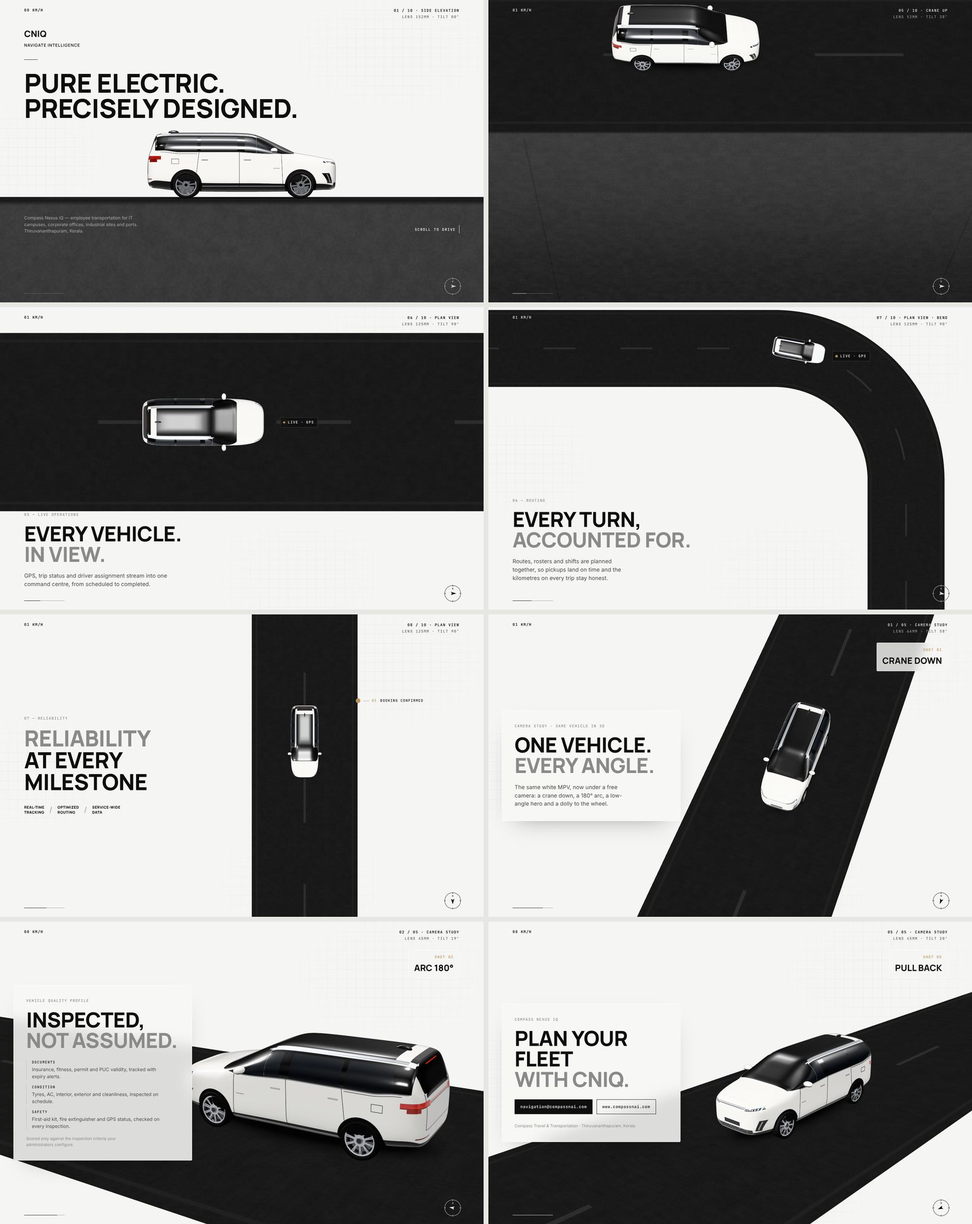
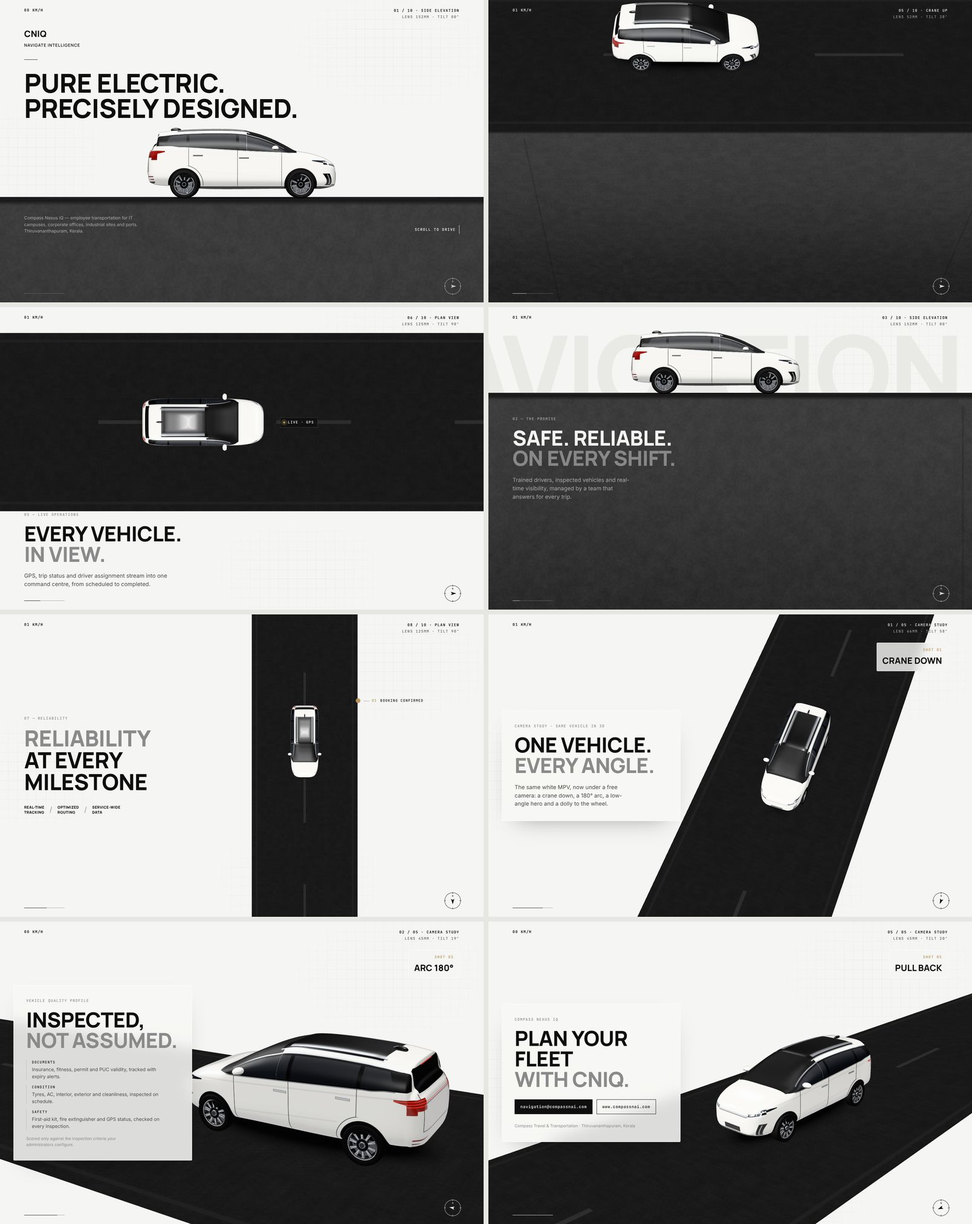
Match CNIQ demo vehicle to the side-view reference
- Re-profile the lofted body from measurements of the reference photo:
  short sloping bonnet, long raked windscreen, roof spoiler over a raked
  tailgate, 1.745 m height, axles at +1.46 / -1.43 m, 0.35 m tyres
- Beltline rising 1.13 -> 1.26 m with a rear-quarter kick, white roof
  strip above a satin DLO line, hinged rear door whose shut-line wraps
  the wheel arch, shoulder crease and lower door sculpt line
- Swept headlamps wrapping the fender, tail lamps wrapping 0.4 m onto
  the flank, side reflector, body-colour skirt with satin strip
- Two-tone rims (gloss-black base, machined spoke faces), matte
  piano-black pillars and tinted panes instead of chrome-like glass
- Camera-study look-at height follows the taller body

Claude-Session: https://claude.ai/code/session_01RJtgHa5R9zYPJP1aifTxRB

diff --git a/demos/cniq-mpv-scroll/vehicle.js b/demos/cniq-mpv-scroll/vehicle.js
@@ -6,10 +6,10 @@ import * as THREE from 'three';
 export const SPEC = {
   length: 4.72,
   width: 1.82,
-  height: 1.645,
+  height: 1.745,
   frontAxle: 1.46,
-  rearAxle: -1.38,
-  wheelRadius: 0.335,
+  rearAxle: -1.43,
+  wheelRadius: 0.35,
   wheelWidth: 0.235,
   track: 0.8, // wheel centre offset from the centre line
 };
@@ -18,16 +18,21 @@ const HALF_L = SPEC.length / 2;
 const HALF_W = SPEC.width / 2;
 
 // Side profile (x, y), front to rear. Top line and bottom line are sampled separately.
+// Measured from the side-view reference: short sloping bonnet, long raked screen,
+// roof spoiler over a raked tailgate. (x, y) in metres, front to rear.
 const TOP = [
-  [2.36, 0.62], [2.355, 0.8], [2.33, 0.9], [2.27, 0.965], [2.1, 1.0], [1.8, 1.06],
-  [1.5, 1.112], [1.32, 1.145], [1.1, 1.25], [0.85, 1.37], [0.6, 1.49], [0.4, 1.572],
-  [0.25, 1.612], [0.0, 1.634], [-1.0, 1.645], [-1.8, 1.64], [-2.05, 1.618], [-2.13, 1.588],
-  [-2.18, 1.5], [-2.25, 1.3], [-2.31, 1.12], [-2.345, 0.95], [-2.36, 0.76],
+  [2.36, 0.56], [2.354, 0.644], [2.343, 0.676], [2.313, 0.816], [2.246, 0.9], [2.188, 0.942],
+  [2.071, 1.006], [1.955, 1.052], [1.838, 1.09], [1.722, 1.122], [1.605, 1.146], [1.488, 1.163],
+  [1.372, 1.184], [1.313, 1.2], [1.197, 1.265], [1.08, 1.33], [0.905, 1.42], [0.789, 1.475],
+  [0.672, 1.525], [0.555, 1.569], [0.439, 1.609], [0.322, 1.641], [0.205, 1.671], [0.089, 1.703],
+  [-0.144, 1.728], [-0.436, 1.738], [-0.845, 1.738], [-1.19, 1.728], [-1.43, 1.718], [-1.54, 1.708],
+  [-1.7, 1.697], [-1.894, 1.673], [-2.01, 1.659], [-2.069, 1.645], [-2.1, 1.52], [-2.127, 1.394],
+  [-2.185, 1.344], [-2.24, 1.245], [-2.3, 1.16], [-2.335, 0.95], [-2.36, 0.7],
 ];
 const BOTTOM = [
-  [2.36, 0.58], [2.35, 0.4], [2.33, 0.27], [2.25, 0.225], [2.0, 0.21], [1.6, 0.19],
-  [1.0, 0.168], [-1.0, 0.168], [-1.6, 0.19], [-2.05, 0.24], [-2.28, 0.28], [-2.34, 0.37],
-  [-2.36, 0.72],
+  [2.36, 0.52], [2.354, 0.484], [2.343, 0.4], [2.313, 0.312], [2.25, 0.29], [2.1, 0.255],
+  [1.95, 0.235], [1.8, 0.24], [1.0, 0.24], [-1.0, 0.24], [-1.75, 0.31], [-2.0, 0.32],
+  [-2.18, 0.344], [-2.24, 0.37], [-2.3, 0.4], [-2.34, 0.55], [-2.36, 0.66],
 ];
 
 function profileSampler(points) {
@@ -78,7 +83,7 @@ function planHalf(x) {
   return HALF_W * Math.pow(Math.max(0, 1 - Math.pow(t, p)), 1 / p);
 }
 
-const BELT = 1.1;
+const BELT = 1.15;
 function widthFactor(y, yb, yt) {
   const tb = smooth(BELT - 0.02, Math.max(yt, BELT + 0.12), y);
   const tumble = 1 - 0.19 * tb * tb;
@@ -180,101 +185,112 @@ const ZONE_MAIN = /* glsl */ `
   float czYt = vRing.x;
   float czHm = vRing.z;
   float czSide = smoothstep(0.35, 0.65, abs(czN.z));
-  // beltline: 1.10 at the A-pillar, 1.15 mid-cabin, kicking up to 1.19 at the rear quarter
-  float czBelt = 1.1 + 0.05 * smoothstep(0.8, -0.2, czP.x) + 0.04 * smoothstep(-1.55, -1.95, czP.x);
-  float czWinTop = czYt - 0.075;
+  // beltline rises from 1.13 m at the A-pillar to 1.26 m, then kicks up at the rear quarter
+  float czBelt = 1.13 + 0.054 * clamp(1.1 - czP.x, 0.0, 2.5) + 0.03 * smoothstep(-1.5, -1.8, czP.x);
+  float czWinTop = czYt - 0.115; // leaves a white roof strip above the satin DLO line
 
-  float czSideBand = czAA(czBelt, czP.y) * (1.0 - czAA(czWinTop, czP.y)) * czAA(-2.15, czP.x) * (1.0 - czAA(0.36, czP.x));
-  float czScreen = czAA(0.36, czP.x) * (1.0 - czAA(1.3, czP.x)) * czAA(czBelt, czP.y);
-  float czRearGlass = (1.0 - czAA(-0.45, czN.x)) * czBand(czP.y, 1.16, 1.555) * (1.0 - czAA(czHm * 0.8, czX));
+  float czSideBand = czAA(czBelt, czP.y) * (1.0 - czAA(czWinTop, czP.y)) * czAA(-2.15, czP.x) * (1.0 - czAA(0.12, czP.x));
+  float czScreen = czAA(0.12, czP.x) * (1.0 - czAA(1.365, czP.x)) * czAA(czBelt, czP.y);
+  float czRearGlass = (1.0 - czAA(-0.45, czN.x)) * czBand(czP.y, 1.25, 1.6) * (1.0 - czAA(0.62, czX)) * (1.0 - czAA(-2.04, czP.x));
   float czGlass = max(max(czSideBand, czScreen), czRearGlass);
 
-  // panes inside the black band (pillars and frames stay jet black)
-  float czPane = czBand(czP.y, czBelt + 0.022, czWinTop - 0.03) * czSide * (
-      czBand(czP.x, 0.07, 0.86 - (czP.y - 1.1) * 1.5) +
-      czBand(czP.x, -1.02, -0.11) +
-      czBand(czP.x, -1.93 + (czP.y - 1.2) * 0.35, -1.1));
+  // panes: front door, rear door, rear quarter (pillars stay piano black)
+  float czPane = czBand(czP.y, czBelt + 0.02, czWinTop - 0.028) * czSide * (
+      czBand(czP.x, -0.07, 1.12 - (czP.y - 1.13) * 1.35) +
+      czBand(czP.x, -1.3, -0.14) +
+      czBand(czP.x, -1.93 + (czP.y - 1.29) * 0.6, -1.37));
 
-  float czClad = max(1.0 - czAA(0.29, czP.y), 1.0 - czAA(-0.4, czN.y));
-  float czZn = czX / max(czHm, 0.05); // 0 at the centre line, 1 at the body side (valid away from nose/tail tips)
+  float czClad = (1.0 - czAA(-0.75, czN.y)) * (1.0 - czAA(0.3, czP.y)); // underside only: the skirt stays body colour
+  float czZn = czX / max(czHm, 0.05);
 
   // ================= PREMIUM TRIM =================
-  // ---- front fascia: matrix lamps with L-shaped DRL, full-width light blade over a satin bar,
-  //      diamond-mesh grille, satin-bladed corner intakes, brushed lip, flush parking sensors
+  // ---- front fascia: swept matrix lamps (wrapping onto the fender), L-signature DRL, full-width
+  //      light blade over a satin bar, corner intakes, diamond-mesh grille, brushed lip
   float czFront = czAA(0.3, czN.x) * czAA(1.95, czP.x);
-  float czLampY = czP.y - 0.05 * smoothstep(0.4, 0.86, czX);
-  float czLamp = czAA(2.02, czP.x) * czBand(czLampY, 0.84, 0.905) * czAA(0.4, czX) * czAA(-0.1, czN.x);
-  float czDrl = czLamp * czBand(czLampY, 0.889, 0.902);
-  czDrl = max(czDrl, czAA(2.02, czP.x) * czAA(-0.1, czN.x) * czBand(czX, 0.703, 0.722) * czBand(czLampY, 0.80, 0.902));
-  float czProj = czLamp * czBand(czLampY, 0.852, 0.877) * czBand(fract((czX - 0.38) * 22.0), 0.2, 0.6) * (1.0 - czAA(0.69, czX));
-  float czBar = czFront * czBand(czP.y, 0.864, 0.882) * (1.0 - czAA(0.42, czX));
-  float czSlot = czFront * czBand(czP.y, 0.884, 0.912) * (1.0 - czAA(0.42, czX));
-  float czBlade = czFront * czBand(czP.y, 0.894, 0.901) * (1.0 - czAA(0.41, czX));
-  float czFangC = 0.68 + (czP.y - 0.38) * 0.3;
-  float czFang = czFront * czBand(czP.y, 0.38, 0.63) * czBand(czX, czFangC - 0.05, czFangC + 0.045);
-  float czFangBlade = czFang * czBand(czX, czFangC - 0.009, czFangC + 0.004) * czBand(czP.y, 0.41, 0.6);
-  float czGrille = czFront * czBand(czP.y, 0.29, 0.395) * (1.0 - czAA(0.58, czX));
+  float czLampY = czP.y - 0.06 * smoothstep(0.45, 0.85, czX);
+  float czLampF = czAA(2.02, czP.x) * czBand(czLampY, 0.785, 0.85) * czAA(0.45, czX) * czAA(-0.1, czN.x);
+  float czSweep = clamp(2.3 - czP.x, 0.0, 1.0);
+  float czLampS = czSide * czBand(czP.x, 1.74, 2.34) * czBand(czP.y, 0.83 + czSweep * 0.175, 0.955 + czSweep * 0.02);
+  float czLamp = max(czLampF, czLampS);
+  float czDrl = czLampF * czBand(czLampY, 0.838, 0.85);
+  czDrl = max(czDrl, czLampS * czBand(czP.y, 0.938 + czSweep * 0.02, 0.952 + czSweep * 0.02));
+  float czProjS = czLampS * czBand(czP.y, 0.86 + czSweep * 0.1, 0.905 + czSweep * 0.05) * czBand(fract(czP.x * 18.0), 0.25, 0.6) * czAA(2.02, czP.x);
+  czDrl = max(czDrl, czAA(2.02, czP.x) * czAA(-0.1, czN.x) * czBand(czX, 0.703, 0.722) * czBand(czLampY, 0.75, 0.85));
+  float czProj = czLampF * czBand(czLampY, 0.8, 0.828) * czBand(fract((czX - 0.45) * 22.0), 0.2, 0.6) * (1.0 - czAA(0.69, czX));
+  float czBar = czFront * czBand(czP.y, 0.752, 0.768) * (1.0 - czAA(0.45, czX));
+  float czSlot = czFront * czBand(czP.y, 0.77, 0.796) * (1.0 - czAA(0.45, czX));
+  float czBlade = czFront * czBand(czP.y, 0.779, 0.786) * (1.0 - czAA(0.44, czX));
+  float czFangC = 0.66 + (czP.y - 0.33) * 0.3;
+  float czFang = czFront * czBand(czP.y, 0.33, 0.62) * czBand(czX, czFangC - 0.05, czFangC + 0.045);
+  float czFangBlade = czFang * czBand(czX, czFangC - 0.009, czFangC + 0.004) * czBand(czP.y, 0.36, 0.59);
+  float czGrille = czFront * czBand(czP.y, 0.24, 0.35) * (1.0 - czAA(0.58, czX));
   vec2 czMesh = vec2(czP.y + czX, czP.y - czX) * 34.0;
   float czMeshL = czGrille * (1.0 - smoothstep(0.06, 0.14, min(abs(fract(czMesh.x) - 0.5), abs(fract(czMesh.y) - 0.5))));
-  float czGrilleRim = czFront * (czBand(czP.y, 0.283, 0.29) + czBand(czP.y, 0.395, 0.401)) * (1.0 - czAA(0.58, czX));
-  float czPlateF = czFront * czBand(czP.y, 0.43, 0.535) * (1.0 - czAA(0.25, czX));
-  float czLip = czFront * czBand(czP.y, 0.236, 0.262) * (1.0 - czAA(0.78, czX));
-  float czFrontLow = czFront * (1.0 - czAA(0.236, czP.y));
-  float czSensor = czFront * (1.0 - czAA(0.011, min(length(vec2(czX - 0.33, czP.y - 0.575)), length(vec2(czX - 0.52, czP.y - 0.575)))));
-  float czHood = czAA(0.6, czN.y) * czBand(czP.x, 1.4, 2.22) * exp(-pow((czX - 0.43) / 0.018, 2.0));
+  float czGrilleRim = czFront * (czBand(czP.y, 0.234, 0.24) + czBand(czP.y, 0.35, 0.356)) * (1.0 - czAA(0.58, czX));
+  float czPlateF = czFront * czBand(czP.y, 0.37, 0.5) * (1.0 - czAA(0.25, czX));
+  float czLip = czFront * czBand(czP.y, 0.2, 0.232) * (1.0 - czAA(0.78, czX));
+  float czFrontLow = czFront * (1.0 - czAA(0.2, czP.y));
+  float czSensor = czFront * (1.0 - czAA(0.011, min(length(vec2(czX - 0.33, czP.y - 0.56)), length(vec2(czX - 0.52, czP.y - 0.56)))));
+  float czHood = czAA(0.6, czN.y) * czBand(czP.x, 1.45, 2.2) * exp(-pow((czX - 0.43) / 0.018, 2.0));
 
-  // ---- rear: L-lamps joined by a full-width red light blade, satin garnish, finned diffuser,
-  //      piano-black spoiler lip, high stop lamp
+  // ---- rear: tail lamps wrapping 0.4 m onto the flank, joined by a full-width red blade
   float czRear = (1.0 - czAA(-0.3, czN.x)) * (1.0 - czAA(-2.05, czP.x));
-  float czTail = czBand(czP.y, 0.965, 1.055) * (1.0 - czAA(-2.0, czP.x)) * czAA(0.46, czX);
-  czTail = max(czTail, czRear * czBand(czP.y, 0.9, 1.055) * czAA(0.72, czX));
-  float czTailLine = czTail * (czBand(czP.y, 0.99, 0.997) + czBand(czP.y, 1.012, 1.018) + czBand(czP.y, 1.034, 1.04));
-  float czBladeR = czRear * czBand(czP.y, 1.009, 1.017) * (1.0 - czAA(0.47, czX));
-  float czBarR = czRear * czBand(czP.y, 0.984, 0.998) * (1.0 - czAA(0.46, czX));
-  float czBladeHousing = czRear * czBand(czP.y, 0.999, 1.027) * (1.0 - czAA(0.47, czX));
-  float czStop = czRear * czBand(czP.y, 1.528, 1.542) * (1.0 - czAA(0.26, czX));
-  float czGate = czRear * (czLine(czX, 0.6, 0.0035) * czBand(czP.y, 0.6, 1.16) + czLine(czP.y, 0.6, 0.0025) * (1.0 - czAA(0.6, czX)));
-  float czReflector = czRear * czBand(czP.y, 0.47, 0.492) * czBand(czX, 0.45, 0.76);
-  float czRearLow = czRear * (1.0 - czAA(0.4, czP.y));
-  float czDiffuser = czRear * czBand(czP.y, 0.255, 0.315) * (1.0 - czAA(0.64, czX));
-  float czFins = czDiffuser * czBand(fract(czX * 11.0), 0.0, 0.16) * czBand(czP.y, 0.255, 0.3);
-  float czSpoiler = czAA(0.25, czN.y) * (1.0 - czAA(-2.0, czP.x)) * czAA(czYt - 0.03, czP.y);
+  float czRun = clamp(czP.x + 2.29, 0.0, 0.4);
+  float czTailS = czSide * (1.0 - czAA(-1.9, czP.x)) * czBand(czP.y, 1.06 + czRun * 0.23, 1.19 - czRun * 0.03);
+  float czTailR = czRear * czBand(czP.y, 1.01, 1.18) * czAA(0.55, czX);
+  czTailR = max(czTailR, czRear * czBand(czP.y, 0.95, 1.18) * czAA(0.76, czX));
+  float czTail = max(czTailS, czTailR);
+  float czTailLine = czTail * (czBand(czP.y, 1.075, 1.082) + czBand(czP.y, 1.115, 1.122) + czBand(czP.y, 1.153, 1.16));
+  float czBladeR = czRear * czBand(czP.y, 1.106, 1.116) * (1.0 - czAA(0.56, czX));
+  float czBarR = czRear * czBand(czP.y, 1.084, 1.1) * (1.0 - czAA(0.55, czX));
+  float czBladeHousing = czRear * czBand(czP.y, 1.1, 1.124) * (1.0 - czAA(0.56, czX));
+  float czStop = czRear * czBand(czP.y, 1.585, 1.598) * (1.0 - czAA(0.26, czX));
+  float czGate = czRear * (czLine(czX, 0.66, 0.0035) * czBand(czP.y, 0.67, 1.25) + czLine(czP.y, 0.67, 0.0025) * (1.0 - czAA(0.66, czX)));
+  float czReflector = czRear * czBand(czP.y, 0.53, 0.555) * czBand(czX, 0.45, 0.78);
+  czReflector = max(czReflector, czSide * (1.0 - czAA(-2.18, czP.x)) * czBand(czP.y, 0.46, 0.485));
+  float czRearLow = czRear * (1.0 - czAA(0.42, czP.y));
+  float czDiffuser = czRear * czBand(czP.y, 0.29, 0.37) * (1.0 - czAA(0.64, czX));
+  float czFins = czDiffuser * czBand(fract(czX * 11.0), 0.0, 0.16) * czBand(czP.y, 0.29, 0.355);
 
   // ---- glass, pillars and roof
-  float czRoof = czAA(0.7, czN.y) * czBand(czP.x, -1.78, 0.4) * (1.0 - czAA(0.64, czZn));
-  float czRoofFrame = czAA(0.7, czN.y) * czBand(czP.x, -1.8, 0.42) * czBand(czZn, 0.64, 0.665);
+  float czRoof = czAA(0.7, czN.y) * czBand(czP.x, -1.6, 0.18) * (1.0 - czAA(0.64, czZn));
+  float czRoofFrame = czAA(0.7, czN.y) * czBand(czP.x, -1.62, 0.2) * czBand(czZn, 0.64, 0.665);
   czGlass = max(czGlass, czRoof);
   float czPillar = czSideBand * (1.0 - clamp(czPane, 0.0, 1.0)) * czSide;
   float czPrivacy = 1.0 - czAA(-0.11, czP.x);
   float czSky = smoothstep(czBelt, czWinTop, czP.y);
 
   float czArch = 0.0;
-  czArch = max(czArch, 1.0 - czAA(0.392, length(vec2(czP.x - 1.46, czP.y - 0.335))));
-  czArch = max(czArch, 1.0 - czAA(0.392, length(vec2(czP.x + 1.38, czP.y - 0.335))));
+  czArch = max(czArch, 1.0 - czAA(0.405, length(vec2(czP.x - 1.46, czP.y - 0.35))));
+  czArch = max(czArch, 1.0 - czAA(0.405, length(vec2(czP.x + 1.43, czP.y - 0.35))));
   czArch *= czAA(0.55, czX);
 
-  // ---- flush detailing: shut lines, flush handles, charge flap
-  float czSeamY = czBand(czP.y, 0.3, czBelt - 0.004);
-  float czSeams = (czLine(czP.x, 1.02 - (czP.y - 0.3) * 0.05, 0.003) + czLine(czP.x, -0.06, 0.003) + czLine(czP.x, -1.16 + (czP.y - 0.3) * 0.12, 0.003)) * czSeamY;
-  czSeams += czLine(czP.y, czBelt - 0.04, 0.0025) * czBand(czP.x, -2.02, -1.1);
-  czSeams += (czLine(czP.y, 0.86, 0.0025) + czLine(czP.y, 0.98, 0.0025)) * czBand(czP.x, -1.74, -1.56);
-  czSeams += (czLine(czP.x, -1.74, 0.0025) + czLine(czP.x, -1.56, 0.0025)) * czBand(czP.y, 0.86, 0.98);
-  float czHandleBox = (czBand(czP.x, 0.05, 0.23) + czBand(czP.x, -1.0, -0.83)) * czBand(czP.y, 0.941, 0.965) * czSide;
-  float czHandle = (czBand(czP.x, 0.056, 0.224) + czBand(czP.x, -0.994, -0.836)) * czBand(czP.y, 0.945, 0.961) * czSide;
-  czSeams += (czHandleBox - czHandle) * 1.0;
+  // ---- surfacing: rising shoulder crease and a lower door sculpt line
+  float czCreaseY = 1.035 + (0.987 - czP.x) * 0.0563;
+  float czCrease = exp(-pow((czP.y - czCreaseY + 0.014) / 0.012, 2.0)) * czBand(czP.x, -1.95, 1.8) * czSide;
+  float czSculptY = 0.54 + (0.987 - czP.x) * 0.071;
+  float czSculpt = exp(-pow((czP.y - czSculptY + 0.012) / 0.014, 2.0)) * czBand(czP.x, -1.0, 0.98) * czSide;
+
+  // ---- hinged doors: shut lines (rear door wraps the wheel arch), flush handles
+  float czSeamY = czBand(czP.y, 0.27, czBelt - 0.004);
+  float czSeams = (czLine(czP.x, 0.987, 0.003) + czLine(czP.x, -0.106, 0.003)) * czSeamY;
+  czSeams += czLine(czP.x, -1.316, 0.003) * czBand(czP.y, 0.8, czBelt - 0.004);
+  czSeams += czLine(length(vec2(czP.x + 1.43, czP.y - 0.35)), 0.47, 0.003) * czAA(-1.43, czP.x) * czBand(czP.y, 0.27, 0.81);
+  float czHandleBox = (czBand(czP.x, -0.07, 0.18) * czBand(czP.y, 0.982, 1.022) + czBand(czP.x, -1.21, -0.96) * czBand(czP.y, 1.042, 1.082)) * czSide;
+  float czHandle = (czBand(czP.x, -0.064, 0.174) * czBand(czP.y, 0.987, 1.017) + czBand(czP.x, -1.204, -0.966) * czBand(czP.y, 1.047, 1.077)) * czSide;
+  czSeams += (czHandleBox - czHandle);
   czSeams *= czSide * (1.0 - czArch);
   czSeams += czGate;
 
   // ---- satin-metal accents
-  float czDloTop = czBand(czP.y, czWinTop - 0.002, czWinTop + 0.013) * czBand(czP.x, -2.1, 0.37) * czSide;
-  float czDloBelt = czBand(czP.y, czBelt - 0.013, czBelt + 0.001) * czBand(czP.x, -2.12, 0.98) * czSide;
-  float czSill = czBand(czP.y, 0.298, 0.312) * czBand(czP.x, -0.98, 1.05) * czSide;
-  float czFender = czBand(czP.y, 0.742, 0.754) * czBand(czP.x, 0.78, 0.94) * czSide;
-  float czRail = czBand(czP.y, czYt - 0.055, czYt - 0.032) * czBand(czP.x, -2.0, 0.3) * smoothstep(0.15, 0.4, abs(czN.z));
-  float czRailGap = czBand(czP.y, czYt - 0.06, czYt - 0.055) * czBand(czP.x, -2.0, 0.3) * smoothstep(0.15, 0.4, abs(czN.z));
-  float czSatin = clamp(czBar + czRail + czBarR + czLip + czDiffuser * (1.0 - czFins) + czDloTop + czDloBelt + czSill + czFender + czGrilleRim + czFangBlade + czRoofFrame, 0.0, 1.0);
+  float czDloTop = czBand(czP.y, czWinTop - 0.002, czWinTop + 0.013) * czBand(czP.x, -1.95, 1.05) * czSide;
+  float czDloBelt = czBand(czP.y, czBelt - 0.013, czBelt + 0.001) * czBand(czP.x, -1.92, 1.2) * czSide;
+  float czSill = czBand(czP.y, 0.275, 0.292) * czBand(czP.x, -1.0, 1.02) * czSide;
+  float czRail = czBand(czP.y, czYt - 0.03, czYt - 0.004) * czBand(czP.x, -1.65, 0.06) * smoothstep(0.08, 0.3, abs(czN.z));
+  float czRailGap = czBand(czP.y, czYt - 0.036, czYt - 0.03) * czBand(czP.x, -1.65, 0.06) * smoothstep(0.08, 0.3, abs(czN.z));
+  float czSatin = clamp(czBar + czRail + czBarR + czLip + czDiffuser * (1.0 - czFins) + czDloTop + czDloBelt + czSill + czGrilleRim + czFangBlade + czRoofFrame, 0.0, 1.0);
   float czBright = clamp(czHandle, 0.0, 1.0);
-  float czGlossBlack = clamp(czFang * (1.0 - czFangBlade) + czGrille * (1.0 - czMeshL) + czPlateF + czSlot * (1.0 - czBlade) + czBladeHousing * (1.0 - czBladeR) + czSpoiler, 0.0, 1.0);
+  float czGlossBlack = clamp(czFang * (1.0 - czFangBlade) + czGrille * (1.0 - czMeshL) + czPlateF + czSlot * (1.0 - czBlade) + czBladeHousing * (1.0 - czBladeR), 0.0, 1.0);
   float czDarkTrim = clamp(czFrontLow + czRearLow * (1.0 - czDiffuser), 0.0, 1.0);
 
   // ---- finish
@@ -286,22 +302,20 @@ const ZONE_MAIN = /* glsl */ `
 
   czCol *= 1.0 - czHood * 0.05;
   czCol *= 1.0 - czSensor * 0.12;
+  czCol *= 1.0 - czCrease * 0.17 - czSculpt * 0.12;
   czCol = mix(czCol, vec3(0.012), czClad); czRough = mix(czRough, 0.55, czClad); czCC = mix(czCC, 0.25, czClad);
   czCol = mix(czCol, vec3(0.005), czArch); czRough = mix(czRough, 0.95, czArch); czCC = mix(czCC, 0.0, czArch);
   czCol = mix(czCol, vec3(0.009), czDarkTrim); czRough = mix(czRough, 0.5, czDarkTrim); czCC = mix(czCC, 0.2, czDarkTrim);
   czCol = mix(czCol, vec3(0.004), czGlossBlack); czRough = mix(czRough, 0.08, czGlossBlack); czCC = mix(czCC, 1.0, czGlossBlack);
   czCol = mix(czCol, vec3(0.05, 0.052, 0.056), czMeshL); czMetal = mix(czMetal, 0.6, czMeshL); czRough = mix(czRough, 0.35, czMeshL);
-  // glass: pillars piano black, panes with depth; rear cabin in privacy tint
-  czCol = mix(czCol, vec3(0.0025), czGlass); czRough = mix(czRough, 0.28, czGlass); czCC = mix(czCC, 0.35, czGlass); czCCR = mix(czCCR, 0.1, czGlass);
-  vec3 czPaneCol = mix(vec3(0.01, 0.011, 0.013), vec3(0.03, 0.033, 0.038), czSky) * mix(1.0, 0.62, czPrivacy);
-  czCol = mix(czCol, czPaneCol, czPane * czGlass); czRough = mix(czRough, 0.22, czPane * czGlass);
-  czCol = mix(czCol, vec3(0.002), czPillar); czRough = mix(czRough, 0.07, czPillar); czCC = mix(czCC, 1.0, czPillar); czCCR = mix(czCCR, 0.02, czPillar);
+  czCol = mix(czCol, vec3(0.0025), czGlass); czRough = mix(czRough, 0.46, czGlass); czCC = mix(czCC, 0.0, czGlass);
+  vec3 czPaneCol = mix(vec3(0.012, 0.013, 0.015), vec3(0.03, 0.032, 0.037), czSky) * mix(1.0, 0.72, czPrivacy);
+  czCol = mix(czCol, czPaneCol, czPane * czGlass); czRough = mix(czRough, 0.42, czPane * czGlass);
+  czCol = mix(czCol, vec3(0.002), czPillar); czRough = mix(czRough, 0.38, czPillar); czCC = mix(czCC, 0.0, czPillar);
   czRough = mix(czRough, 0.26, czRoof); czCC = mix(czCC, 0.3, czRoof); czCol = mix(czCol, vec3(0.005), czRoof);
-  // lamps
   czCol = mix(czCol, vec3(0.008, 0.009, 0.012), czLamp); czRough = mix(czRough, 0.05, czLamp); czCC = mix(czCC, 1.0, czLamp);
   czCol = mix(czCol, vec3(0.09, 0.004, 0.004), czTail); czRough = mix(czRough, 0.06, czTail); czCC = mix(czCC, 1.0, czTail);
   czCol = mix(czCol, vec3(0.2, 0.008, 0.008), czReflector);
-  // satin metal and bright handle inserts
   czCol = mix(czCol, vec3(0.58, 0.6, 0.63), czSatin); czMetal = mix(czMetal, 1.0, czSatin); czRough = mix(czRough, 0.34, czSatin); czCC = mix(czCC, 0.0, czSatin);
   czCol = mix(czCol, vec3(0.8, 0.82, 0.85), czBright); czMetal = mix(czMetal, 1.0, czBright); czRough = mix(czRough, 0.14, czBright);
   czCol = mix(czCol, czCol * 0.15, clamp(czSeams + czRailGap, 0.0, 1.0));
@@ -310,7 +324,7 @@ const ZONE_MAIN = /* glsl */ `
   diffuseColor.rgb = czCol;
   roughnessFactor = czRough;
   metalnessFactor = czMetal;
-  totalEmissiveRadiance += (czDrl * 1.15 + czProj * 0.7 + czBlade * 0.9) * vec3(0.86, 0.93, 1.0) * uDrl;
+  totalEmissiveRadiance += (czDrl * 1.15 + (czProj + czProjS) * 0.7 + czBlade * 0.9) * vec3(0.86, 0.93, 1.0) * uDrl;
   totalEmissiveRadiance += (czTailLine * 1.5 + czBladeR * 1.6 + czTail * 0.22 + czStop) * vec3(1.0, 0.045, 0.03) * uTail;
 `;
 
@@ -339,16 +353,16 @@ function makeBodyMaterial(uniforms) {
       .replace('#include <emissivemap_fragment>', `#include <emissivemap_fragment>\n${ZONE_MAIN}`)
       .replace(
         '#include <lights_physical_fragment>',
-        '#include <lights_physical_fragment>\nmaterial.specularF90 = mix(material.specularF90, 0.42, czGlass);\n#ifdef USE_CLEARCOAT\nmaterial.clearcoat = czCC;\nmaterial.clearcoatRoughness = czCCR;\n#endif\n#ifdef USE_IRIDESCENCE\nmaterial.iridescence *= czPaint;\n#endif',
+        '#include <lights_physical_fragment>\nmaterial.specularF90 = mix(material.specularF90, 0.16, czGlass);\n#ifdef USE_CLEARCOAT\nmaterial.clearcoat = czCC;\nmaterial.clearcoatRoughness = czCCR;\n#endif\n#ifdef USE_IRIDESCENCE\nmaterial.iridescence *= czPaint;\n#endif',
       );
   };
-  mat.customProgramCacheKey = () => 'cniq-mpv-body-premium-v1';
+  mat.customProgramCacheKey = () => 'cniq-mpv-body-premium-v6';
   return mat;
 }
 
 // ---------- wheels ----------
 // Low-profile tyre on a large 10-twin-spoke rim: machined faces, gloss-black pockets, polished lip.
-const RIM_R = 0.256;
+const RIM_R = 0.25;
 
 function tireTexture() {
   const c = document.createElement('canvas');
@@ -389,6 +403,29 @@ function tireGeometry() {
   const g = new THREE.LatheGeometry(pts, 96);
   g.rotateX(Math.PI / 2);
   return g;
+}
+
+function rimFaceTexture() {
+  const c = document.createElement('canvas');
+  c.width = c.height = 512;
+  const g = c.getContext('2d');
+  const k = 512 / 0.5; // texture spans -0.25..0.25 m
+  g.fillStyle = '#16171a';
+  g.fillRect(0, 0, 512, 512);
+  const ring = (r0, r1, col) => {
+    g.beginPath();
+    g.arc(256, 256, r1 * k, 0, Math.PI * 2);
+    g.arc(256, 256, r0 * k, 0, Math.PI * 2, true);
+    g.fillStyle = col;
+    g.fill();
+  };
+  ring(0.104, 0.226, '#d9dce0'); // machined spoke faces
+  ring(0.241, 0.25, '#c9ccd1'); // bright lip edge
+  const tex = new THREE.CanvasTexture(c);
+  tex.colorSpace = THREE.SRGBColorSpace;
+  tex.repeat.set(2, 2);
+  tex.offset.set(0.5, 0.5);
+  return tex;
 }
 
 function rimGeometry() {
@@ -506,7 +543,7 @@ export function createVehicle() {
       iridescence: 0.16, iridescenceIOR: 1.35, iridescenceThicknessRange: [260, 420],
     }),
     rubber: new THREE.MeshStandardMaterial({ map: tireTexture(), roughness: 0.86 }),
-    rim: new THREE.MeshStandardMaterial({ color: 0xd2d5da, metalness: 1, roughness: 0.2 }),
+    rim: new THREE.MeshStandardMaterial({ map: rimFaceTexture(), metalness: 0.85, roughness: 0.24 }),
     rimDark: new THREE.MeshPhysicalMaterial({ color: 0x0d0e10, metalness: 0.2, roughness: 0.18, clearcoat: 1 }),
     polish: new THREE.MeshStandardMaterial({ color: 0xe6e8eb, metalness: 1, roughness: 0.08 }),
     satin: new THREE.MeshStandardMaterial({ color: 0x9a9ea4, metalness: 1, roughness: 0.34 }),
@@ -528,10 +565,10 @@ export function createVehicle() {
   for (const side of [1, -1]) {
     const cap = new THREE.Mesh(new THREE.SphereGeometry(1, 32, 20), materials.paint);
     cap.scale.set(0.085, 0.064, 0.125);
-    cap.position.set(0.8, 1.19, side * 0.985);
+    cap.position.set(0.83, 1.245, side * 0.975);
     group.add(cap);
     const arm = new THREE.Mesh(new THREE.BoxGeometry(0.07, 0.032, 0.14), materials.gloss);
-    arm.position.set(0.84, 1.15, side * 0.875);
+    arm.position.set(0.87, 1.205, side * 0.865);
     group.add(arm);
     // piano-black lower shell and a slim smoked repeater lens on the leading edge
     const shell = new THREE.Mesh(new THREE.SphereGeometry(1, 32, 12, 0, Math.PI * 2, Math.PI * 0.62, Math.PI * 0.38), materials.gloss);
@@ -539,14 +576,14 @@ export function createVehicle() {
     shell.position.copy(cap.position);
     group.add(shell);
     const lens = new THREE.Mesh(new THREE.BoxGeometry(0.012, 0.008, 0.085), materials.lens);
-    lens.position.set(0.872, 1.165, side * 1.03);
+    lens.position.set(0.902, 1.22, side * 1.02);
     group.add(lens);
   }
 
   // shark-fin antenna
   const fin = new THREE.Mesh(new THREE.SphereGeometry(1, 24, 12), materials.gloss);
   fin.scale.set(0.13, 0.05, 0.034);
-  fin.position.set(-1.72, 1.658, 0);
+  fin.position.set(-1.66, 1.722, 0);
   group.add(fin);
 
   // wheels

diff --git a/demos/cniq-mpv-scroll/main.js b/demos/cniq-mpv-scroll/main.js
@@ -464,7 +464,7 @@ function buildTimeline(L) {
     .to(rig, { brake: 1.3, duration: 0.15 }, 9.75)
     // ---- camera study
     .to(rig, {
-      elev: 26, azim: 38, fov: 30, vw: L.studyVw, ty: 0.72, ay: 0.72, sx: L.studySx, sy: L.studySy,
+      elev: 26, azim: 38, fov: 30, vw: L.studyVw, ty: 0.8, ay: 0.8, sx: L.studySx, sy: L.studySy,
       fade: 16, duration: 1, ease: 'power2.inOut',
     }, 10)
     .to(rig, { brake: 0.2, drl: 1.6, duration: 0.5 }, 10.2)

diff --git a/demos/cniq-mpv-scroll/README.md b/demos/cniq-mpv-scroll/README.md
@@ -54,7 +54,7 @@ DOM positions such as the road top, road edges, milestones, the live tag and the
 
 ## The vehicle
 
-`vehicle.js` builds a white MPV from lofted superellipse sections that follow the side profile of the reference poster. All paint, glass and trim zones are resolved per fragment in object space, so edges stay crisp at any zoom without textures. The premium trim includes:
+`vehicle.js` builds a white MPV/wagon from lofted superellipse sections. The side profile, axle positions, beltline, door shut-lines, lamp placement and spoiler are measured from the user's side-view reference photo and scaled to 4.72 m (short sloping bonnet, long raked windscreen, roof spoiler over a raked tailgate, hinged rear doors). All paint, glass and trim zones are resolved per fragment in object space, so edges stay crisp at any zoom without textures. The premium trim includes:
 
 - Pearl-white paint with a deep clearcoat and a faint thin-film flop, applied to painted surfaces only.
 - Matrix projector lamps, an L-shaped DRL signature, and a full-width LED light blade front and rear.
